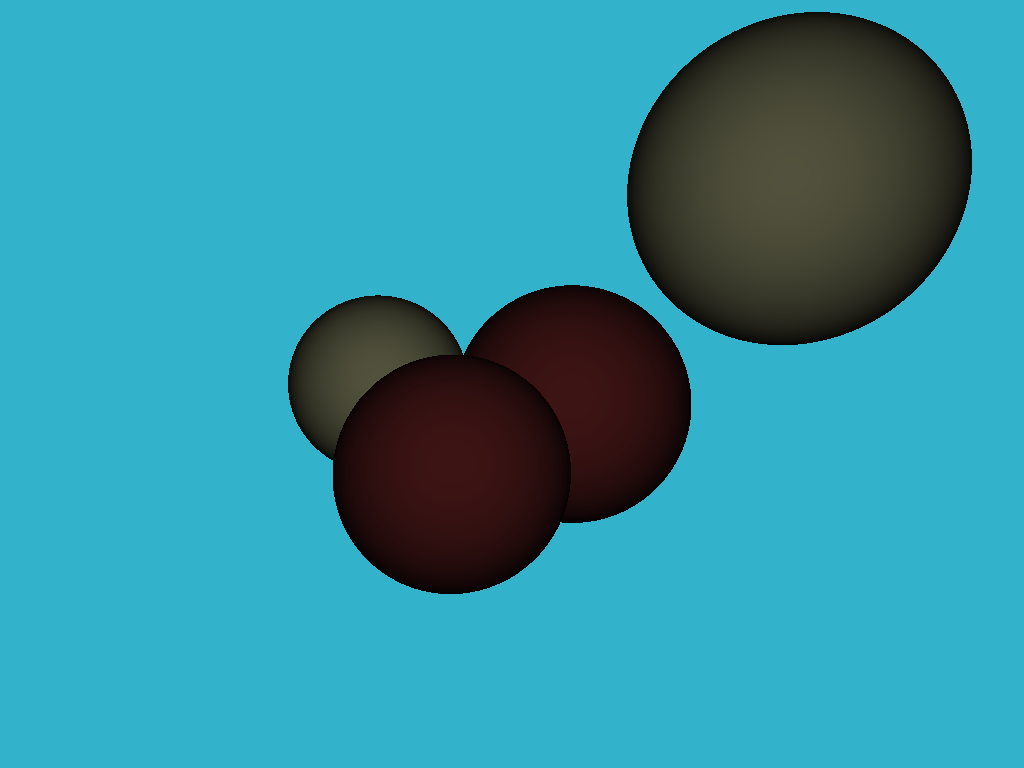
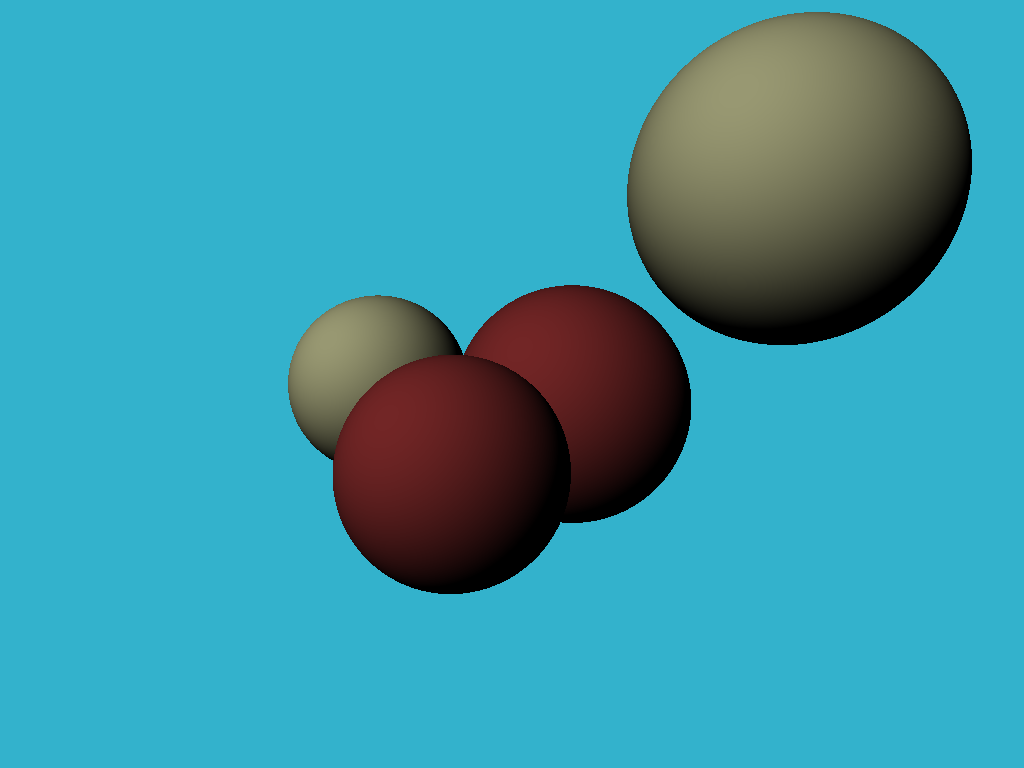
clean and copy lighting values

diff --git a/src/main.cpp b/src/main.cpp
@@ -3,8 +3,6 @@
 
 #include <limits>
 #include <cmath>
-#include <iostream>
-#include <fstream>
 #include <vector>
 #include "types.h"
 #include "shapes.h"
@@ -26,12 +24,9 @@ vec3f& hit, vec3f& n, Material& material) {
     return spheres_dist < 1000;
 }
 
-vec3f cast_ray(const vec3f& origin, const vec3f& direction, const std::vector<Sphere>& spheres) {
+vec3f cast_ray(const vec3f& origin, const vec3f& direction, const std::vector<Sphere>& spheres, const std::vector<Light>& lights) {
 	vec3f point, n;
     Material material;
-
-    std::vector<Light> lights;
-    lights.push_back(Light({0, 1., 1.}, 0.8));
 
     float diffuse_light_intensity = 0.;
 
@@ -47,7 +42,7 @@ vec3f cast_ray(const vec3f& origin, const vec3f& direction, const std::vector<Sp
     return material.diffuse_color * diffuse_light_intensity;
 }
 
-void render(const std::vector<Sphere>& spheres) {
+void render(const std::vector<Sphere>& spheres, std::vector<Light>& lights) {
     constexpr int width    = 1024;
     constexpr int height   = 768;
     constexpr int fov = PI/2;
@@ -62,7 +57,7 @@ void render(const std::vector<Sphere>& spheres) {
             float x = (2*(i + 0.5) / (float)width - 1) * screen_width;
             float y = -(2*(j + 0.5) / (float)height - 1) * /* world units*/(tan(fov/2.));
             vec3f dir = vec3f(x, y, -1).normalize();
-            framebuffer[i+j*width] = cast_ray(vec3f(0,0,0), dir, spheres);
+            framebuffer[i+j*width] = cast_ray(vec3f(0,0,0), dir, spheres, lights);
         }
     }
 
@@ -87,7 +82,10 @@ int main() {
     spheres.push_back(Sphere(vec3f( 1.5, -0.5, -18), 3, red_rubber));
     spheres.push_back(Sphere(vec3f( 7,    5,   -18), 4,      ivory));
 
-    render(spheres);
+    std::vector<Light> lights;
+    lights.push_back(Light(vec3f{-20., 20, 20.}, 1.5));
+
+    render(spheres, lights);
 
     return 0;
 }
